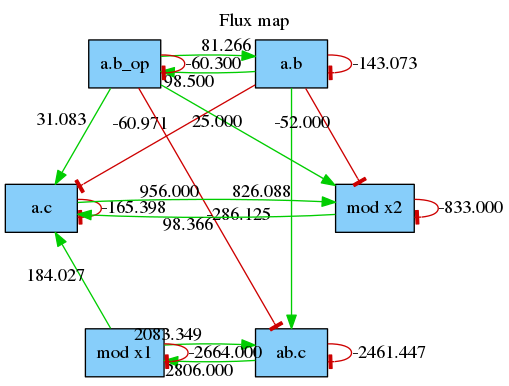
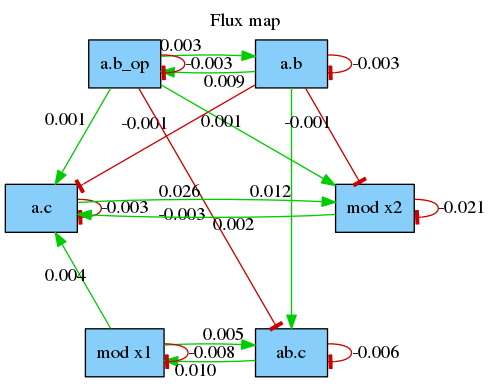
Sync website for native with Kappa-Dev/KaSim@6c3d7c375122aca6afd282458d857d85d34b535e why were there some headers in the test suite ?

diff --git a/docs/KaSim-manual-master/KaSim_manual.htm b/docs/KaSim-manual-master/KaSim_manual.htm
@@ -6945,9 +6945,9 @@ class="ectt-1095">reachability.ka</span>.
 
                                                                                   
 <div class="verbatim" id="verbatim-5">
-Kappa Static Analyzer (a59a5da) (without Tk interface)
- <br />Analysis launched at 2016/12/07 23:46:51 (GMT+0) on
- <br />testing-gce-eaf920e7-cbb9-4f7a-bf7d-9c222ecef4cf
+Kappa Static Analyzer (6c3d7c3) (without Tk interface)
+ <br />Analysis launched at 2016/12/12 06:30:13 (GMT+0) on
+ <br />testing-gce-1b56a127-5097-4542-b08d-686e386d65bd
  <br />Parsing ../kappa/reachability.ka...
  <br />done
  <br />Compiling...
@@ -7127,9 +7127,9 @@ class="ectt-1095">n</span>.</li></ul>
 
                                                                                   
 <div class="verbatim" id="verbatim-6">
-Kappa Static Analyzer (a59a5da) (without Tk interface)
- <br />Analysis launched at 2016/12/07 23:46:51 (GMT+0) on
- <br />testing-gce-eaf920e7-cbb9-4f7a-bf7d-9c222ecef4cf
+Kappa Static Analyzer (6c3d7c3) (without Tk interface)
+ <br />Analysis launched at 2016/12/12 06:30:13 (GMT+0) on
+ <br />testing-gce-1b56a127-5097-4542-b08d-686e386d65bd
  <br />Parsing ../kappa/reachability.ka...
  <br />done
  <br />Compiling...

diff --git a/docs/KaSim-API-master/type_Data.html b/docs/KaSim-API-master/type_Data.html
@@ -78,6 +78,7 @@
 <code class="code"><span class="keyword">sig</span><br>
 &nbsp;&nbsp;<span class="keyword">type</span>&nbsp;flux_data&nbsp;=&nbsp;{<br>
 &nbsp;&nbsp;&nbsp;&nbsp;flux_name&nbsp;:&nbsp;string;<br>
+&nbsp;&nbsp;&nbsp;&nbsp;flux_normalized&nbsp;:&nbsp;bool;<br>
 &nbsp;&nbsp;&nbsp;&nbsp;flux_start&nbsp;:&nbsp;float;<br>
 &nbsp;&nbsp;&nbsp;&nbsp;flux_hits&nbsp;:&nbsp;int&nbsp;array;<br>
 &nbsp;&nbsp;&nbsp;&nbsp;flux_fluxs&nbsp;:&nbsp;float&nbsp;array&nbsp;array;<br>

diff --git a/docs/KaSim-API-master/Data.html b/docs/KaSim-API-master/Data.html
@@ -100,6 +100,13 @@
 <td align="left" valign="top" >
 <code>&nbsp;&nbsp;</code></td>
 <td align="left" valign="top" >
+<code><span id="TYPEELTflux_data.flux_normalized">flux_normalized</span>&nbsp;: <code class="type">bool</code>;</code></td>
+
+</tr>
+<tr>
+<td align="left" valign="top" >
+<code>&nbsp;&nbsp;</code></td>
+<td align="left" valign="top" >
 <code><span id="TYPEELTflux_data.flux_start">flux_start</span>&nbsp;: <code class="type">float</code>;</code></td>
 
 </tr>
